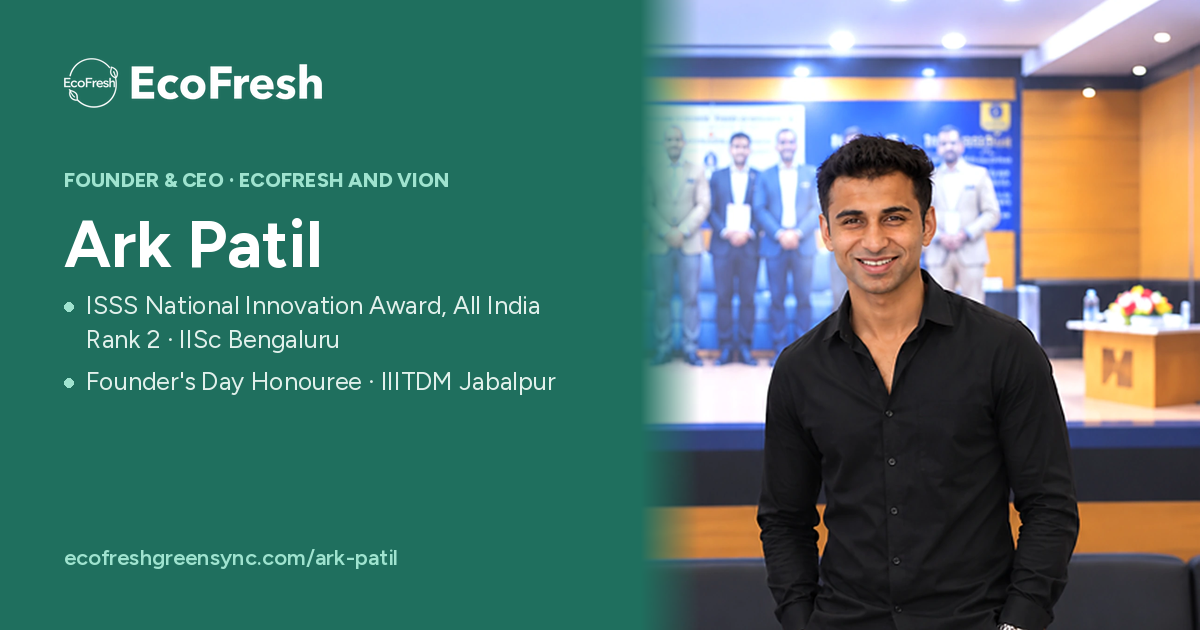
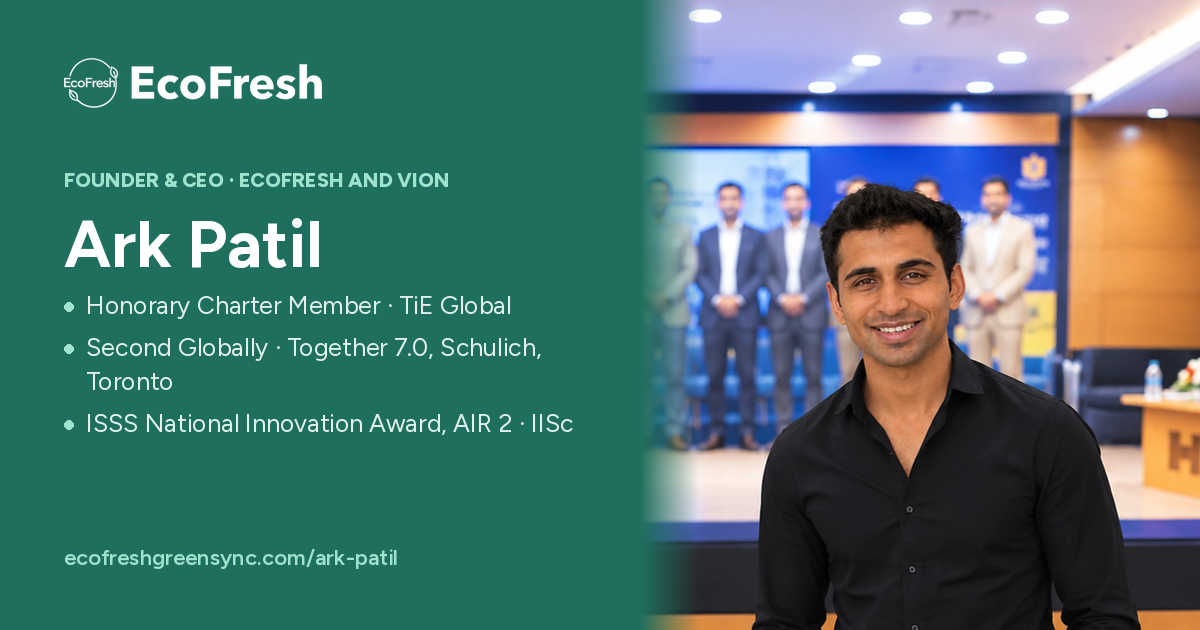
Bring Ark's profile in line with his LinkedIn (#16)
- Badges: Honorary Charter Member, TiE Global; Life Member, ISSS, IISc.
- Honours: Second Globally, Together 7.0; ISSS AIR 2; Founder's Day with
  the Director's institute-wide letter; Claude for Startups (Anthropic).
- VION: Rs 10 Cr committed (Sobhagya Mercantile CMD), 20+ clinicians and
  professors, Medicover Nashik pilot in preparation, Dr Deogaonkar review,
  IHFC IIT Delhi, CeNSE/NNFC, SiB shortlist (was 'selected'), TRL 4.
- EcoFresh: Together 7.0 2nd, paid-pilot talks with IHCL and Oberoi,
  Gemcorp and Matolutions sample requests, incubators, Blume added.
- Engineer view: semester GPA 5.4 to 9.2. Dropped 'Expedited examination'
  (also on Shivansh's patent card, plus its mixed-waste line).
- Google: new description and Person data (TiE, ISSS, Claude for
  Startups, IHFC); preview cards use the portraits the site shows.

Claude-Session: https://claude.ai/code/session_01LxFWTn4R91bdT7mANpx3nX

diff --git a/index.html b/index.html
@@ -5642,7 +5642,7 @@
   <div class="rg-main">
     <figure class="rg-photo"><img src="ark-cover7.webp" alt="Ark Patil, Founder and CEO of EcoFresh"></figure>
     <div class="rg-body">
-      <div class="rg-top"><p class="rg-role">Founder &amp; Chief Executive Officer</p><div class="rg-badges"><span class="rg-badge">An IIIT Alumnus</span><span class="rg-badge">Life Member, ISSS · IISc Bengaluru</span></div></div>
+      <div class="rg-top"><p class="rg-role">Founder &amp; Chief Executive Officer</p><div class="rg-badges"><span class="rg-badge">Honorary Charter Member · TiE Global</span><span class="rg-badge">Life Member · ISSS, IISc</span><span class="rg-badge">An IIIT Alumnus</span></div></div>
       <h2 class="rg-name">Ark Patil</h2>
       <nav class="rg-tabs" aria-label="Ark Patil's story">
         <button type="button" data-s="entrepreneur">Entrepreneur</button><i></i>
@@ -5650,11 +5650,13 @@
         <button type="button" data-s="inventor">Inventor</button><i></i>
         <button type="button" data-s="athlete">National Collegiate Athlete</button>
       </nav>
-      <div class="rg-honour rg-hon2">
-        <p title="Dr V. K. Aatre: former Director General, DRDO and Scientific Adviser to the Defence Minister; Padma Vibhushan (2016) and Padma Bhushan (2000). Prof. Rudra Pratap: founding Vice-Chancellor, Plaksha University; Qimpro Gold Standard 2024 (Education); built India's first MEMS research lab at IISc and co-founded i2n Technologies, maker of India's first indigenous MEMS product; 250 papers, 17 patents. Prof. Navakanta Bhat: Infosys Prize 2018 (Engineering and Computer Science), IISc Bengaluru."><span>ISSS National Innovation Awardee <i>·</i> IISc Bengaluru</span><em><b>AIR 2</b> · conferred by <b>Padma Vibhushan Dr V. K. Aatre</b>, former Chief of India's Defence Research &amp; Development Organisation; <b>Prof. Rudra Pratap</b>, Qimpro Gold Standard awardee who built India's first MEMS research lab at IISc; &amp; <b>Prof. Navakanta Bhat</b>, Infosys Prize laureate, IISc</em></p>
-        <p title="Prof. Bhartendu K. Singh: Director, IIITDM Jabalpur; physicist on the PHENIX quark-gluon plasma experiment at Brookhaven National Laboratory (USA); 270+ SCI papers, h-index 50; postdoctoral work at the Weizmann Institute, INFN and Columbia University. Prof. Puneet Tandon: 46 patents and design registrations (22 granted, 9 international); 365 publications; Honorary Professor, Nosov Magnitogorsk State Technical University (Russia); DUO-India Professor Fellow, University of Padova; former Dean (Research), IIITDM Jabalpur."><span>Founder's Day Honouree <i>·</i> IIITDM Jabalpur</span><em>Felicitated by the Director, <b>Prof. Bhartendu K. Singh</b>, physicist at Brookhaven National Laboratory, USA, &amp; <b>Prof. Puneet Tandon</b>, Honorary Professor, Nosov Magnitogorsk State Technical University, Russia</em></p>
+      <div class="rg-honour rg-hon2 sf-hon">
+        <p class="sf-in" title="Together 7.0, Indo-Canada Global Entrepreneurship Bootcamp &amp; Venture Competition, 2 November 2026: run by the Schulich School of Business, York University, and the Consulate General of India, Toronto, with TiE Toronto and Startup India (DPIIT). Teams selected from student founders across 17,000+ colleges and 700+ universities. Prize: CAD 5,000 from Friends of Bata, the Bata family's entrepreneurship platform, and a funded invitation to the TiE Global Summit, Indore."><span>Second Globally <i>·</i> Together 7.0 <i>·</i> Schulich, Toronto</span><em>International Second Prize with <b>TiE</b> &amp; <b>Startup India</b>; <b>CAD 5,000</b> from <b>Friends of Bata</b></em></p>
+        <p class="sf-in" title="Dr V. K. Aatre: former Director General, DRDO and Scientific Adviser to the Defence Minister; Padma Vibhushan (2016) and Padma Bhushan (2000). Prof. Rudra Pratap: founding Vice-Chancellor, Plaksha University; Qimpro Gold Standard 2024 (Education); built India's first MEMS research lab at IISc and co-founded i2n Technologies, maker of India's first indigenous MEMS product; 250 papers, 17 patents. Prof. Navakanta Bhat: Infosys Prize 2018 (Engineering and Computer Science), IISc Bengaluru."><span>ISSS National Innovation Awardee <i>·</i> IISc Bengaluru</span><em><b>AIR 2</b>, conferred by <b>Padma Vibhushan Dr V. K. Aatre</b>, former Chief of DRDO; <b>Prof. Rudra Pratap</b> &amp; <b>Prof. Navakanta Bhat</b></em></p>
+        <p class="sf-in" title="Prof. Bhartendu K. Singh: Director, IIITDM Jabalpur; physicist on the PHENIX quark-gluon plasma experiment at Brookhaven National Laboratory (USA); 270+ SCI papers, h-index 50; postdoctoral work at the Weizmann Institute, INFN and Columbia University. Prof. Puneet Tandon: 46 patents and design registrations (22 granted, 9 international); 365 publications; Honorary Professor, Nosov Magnitogorsk State Technical University (Russia); DUO-India Professor Fellow, University of Padova; former Dean (Research), IIITDM Jabalpur."><span>Founder's Day Honouree <i>·</i> IIITDM Jabalpur</span><em>Felicitated by the Director, <b>Prof. Bhartendu K. Singh</b>, &amp; <b>Prof. Puneet Tandon</b> · an <b>institute-wide letter</b> from the Director</em></p>
+        <p class="sf-in" title="Claude for Startups, the startup programme of Anthropic, accepted EcoFresh in 2026."><span>Selected <i>·</i> Claude for Startups <i>·</i> Anthropic</span><em>Chosen from <b>100,000+ startups</b> worldwide</em></p>
       </div>
-      <p class="rg-lead">Founder of EcoFresh and VION, two deep-tech companies built through India's leading institutions.</p>
+      <p class="rg-lead">Founder of EcoFresh and VION, two deep-tech companies built through India's leading institutions. Inventor on five Indian patent applications.</p>
       <div class="rg-press"><span>As featured in</span>
         <a href="https://www.facebook.com/share/v/1CDXeKERmV/" target="_blank" rel="noopener"><figure><img class="pc" src="press-etv.webp" alt="ETV Bharat feature" loading="lazy"><figcaption>ETV Bharat <em>Watch ↗</em></figcaption></figure></a>
         <figure><img src="press-patrika.webp" alt="Patrika report" loading="lazy"><figcaption>Patrika</figcaption></figure>
@@ -5682,15 +5684,15 @@
           <article class="ev-co">
             <header><img class="ev-logo ev-vion" src="lg-vion.webp" alt="VION"><span class="ev-kind">Health wearables</span></header>
             <p class="ev-what">A sweat-sensing arm band that flags health risks from sweat alone.</p>
-            <ul class="ev-stats"><li><b>AIR 2</b><span>ISSS Awards 2024, IISc Bengaluru</span></li><li><b>AIIMS · IITD</b><span>selected by the School of International Biodesign</span></li><li><b>₹150 Cr+</b><span>valuation, backed by MKS Group</span></li></ul>
-            <p class="ev-cred">A year in development; trialled on 100+ people, with accuracy close to 95% certified in writing by six senior doctors · Fabrication reviewed with CeNSE, IISc · Incubation offer, IHFC, IIT Delhi</p>
+            <ul class="ev-stats"><li><b>AIR 2</b><span>ISSS Awards 2024, IISc Bengaluru</span></li><li><b>₹10 Cr</b><span>committed by Shrikant Bhangdiya, CMD, Sobhagya Mercantile</span></li><li><b>20+</b><span>senior clinicians and professors, AIIMS New Delhi, IIT Delhi &amp; IISc</span></li></ul>
+            <p class="ev-cred">First observational clinical pilot (~50 participants) in preparation at Medicover Hospitals, Nashik, with Dr Sudhir Shetkar (DM Cardiology, AIIMS) · Clinical pathway confirmed by Dr Milind Deogaonkar, Director of Neurosurgery, Manipal Hospitals · Selected for incubation by IHFC, IIT Delhi · Fabrication feasibility closed with CeNSE/NNFC, IISc · Shortlisted and interviewed, School of International Biodesign 2026, AIIMS New Delhi &amp; IIT Delhi · Six-channel measurement chain lab-validated (TRL 4)</p>
             <div class="ev-acts"><button type="button" class="ev-play" data-yt="i609p_9neC0" data-title="VION">▶ Watch the film</button><a href="https://www.vion-global.com/" target="_blank" rel="noopener">Visit website ↗</a><button type="button" class="me-zoom ev-cert" data-full="cert-isss.webp" aria-label="ISSS UG Student Award 2024, Second Prize, certificate">View AIR 2 certificate</button></div>
           </article>
           <article class="ev-co">
             <header><img class="ev-logo ev-lock" src="logo-lockup.webp" alt="EcoFresh: A Decentralized Climate Infrastructure Layer"><span class="ev-kind">Climate infrastructure</span></header>
             <p class="ev-what">A sealed unit at each hotel, feeding a shared hub that turns food waste into bioplastic.</p>
-            <ul class="ev-stats"><li><b>Top 14</b><span>of 1,300+ teams nationally, ISB LoopX</span></li><li><b>16th</b><span>of 2,500+ from 6+ countries, Hult Prize with the UN, IIT Bombay</span></li><li><b>3</b><span>incubators: IIITDM, IIT Ropar, ISB</span></li></ul>
-            <p class="ev-cred">Reviewed by The Earth Fund (Gruhas), Social Alpha and Lavni Ventures · Strong interest from India's leading climate investors and angels, and from NSRCEL, IIM Bangalore</p>
+            <ul class="ev-stats"><li><b>2nd</b><span>globally, Together 7.0, Schulich School of Business, with TiE</span></li><li><b>Top 14</b><span>of 1,300+ teams nationally, ISB LoopX</span></li><li><b>16th</b><span>of 2,500+ from 6+ countries, Hult Prize with the UN, IIT Bombay</span></li></ul>
+            <p class="ev-cred">In paid-pilot discussions with IHCL (Taj Hotels), starting with Taj Nashik, and The Oberoi Group · Gemcorp Recycling and Matolutions have asked for samples for machine trials · Bioplastic made from food-waste fats, confirmed at Tezpur University (TRL 4) · Incubated at IIITDM Jabalpur, TBIF IIT Ropar (36 months, designated pilot site) and ISB · Reviewed by Blume Ventures, Social Alpha, The Earth Fund and Lavni Ventures · Selected for Claude for Startups, Anthropic</p>
             <div class="ev-acts"><button type="button" class="ev-play" data-yt="qmsmWd0p7u8" data-title="EcoFresh">▶ Watch the film</button><a href="https://www.ecofreshgreensync.com/" target="_blank" rel="noopener">Visit website ↗</a></div>
           </article>
         </div>
@@ -5707,7 +5709,7 @@
         <div class="me-tb" aria-hidden="true"><div><span>Drawn</span>A. Patil</div><div><span>Institute</span>IIITDM Jabalpur</div><div><span>Scale</span>1 : 1</div><div><span>Sheet</span>2 of 4</div></div>
         <p class="ev-eyebrow">Mechanical Engineer</p>
         <h3 class="ev-head">An engineer's hands behind the CEO's decisions.</h3>
-        <p class="ev-lede">Five edges of his craft, six perfect A+ grades, and where each one shows up in EcoFresh.</p>
+        <p class="ev-lede">Five edges of his craft, six perfect A+ grades, a semester GPA that rose every term from 5.4 to 9.2, and where each shows up in EcoFresh.</p>
         <div class="me-cards"><article class="me-card"><figure><button type="button" class="me-zoom" data-full="me-unit-full.webp" aria-label="Enlarge: Hotel unit main assembly, front and side views"><img src="me-unit.webp" alt="Hotel unit main assembly, front and side views" loading="lazy"></button></figure><h4><span>01</span>Design &amp; CAD</h4><ul><li><span>Computer-Aided Product Development</span><b class="ap">A+</b></li><li><span>Rapid Product Development</span><b class="">A</b></li><li><span>Engineering Design &amp; Fabrication Project</span><b class="">A</b></li></ul><p><i>→ In EcoFresh</i>Designed the hotel unit's main assembly in CAD, to a 3.0 × 2.0 × 2.4 m footprint.</p></article><article class="me-card"><figure><button type="button" class="me-zoom" data-full="me-tanks-full.webp" aria-label="Enlarge: Hotel unit storage tanks, fabrication drawing"><img src="me-tanks.webp" alt="Hotel unit storage tanks, fabrication drawing" loading="lazy"></button></figure><h4><span>02</span>Fabrication &amp; Joining</h4><ul><li><span>Fabrication Project</span><b class="ap">A+</b></li><li><span>Advanced Welding &amp; Joining</span><b class="ap">A+</b></li></ul><p><i>→ In EcoFresh</i>Sealed stainless units, and the pressure-rated scCO₂ extraction chamber.</p></article><article class="me-card"><figure><button type="button" class="me-zoom" data-full="me-pha-full.webp" aria-label="Enlarge: EcoForm PHA pellets"><img src="me-pha.webp" alt="EcoForm PHA pellets" loading="lazy"></button></figure><h4><span>03</span>Materials</h4><ul><li><span>Engineering Materials &amp; Characterization</span><b class="ap">A+</b></li></ul><p><i>→ In EcoFresh</i>Reads PHA bioplastic as a material: pellet grade, strength and film.</p></article><article class="me-card"><figure><button type="button" class="me-zoom" data-full="me-hub-full.webp" aria-label="Enlarge: Central hub, engineering layout"><img src="me-hub.webp" alt="Central hub, engineering layout" loading="lazy"></button></figure><h4><span>04</span>Manufacturing</h4><ul><li><span>Manufacturing Process</span><b class="ap">A+</b></li><li><span>Advanced Manufacturing Processes</span><b class="">A</b></li><li><span>Additive &amp; Subtractive Manufacturing</span><b class="">A</b></li></ul><p><i>→ In EcoFresh</i>Laid out the 60 × 30 m central hub, from the receiving bay to PHA bagging.</p></article><article class="me-card"><figure><button type="button" class="me-zoom" data-full="me-cad-full.webp" aria-label="Enlarge: Hotel unit enclosure with control panel"><img src="me-cad.webp" alt="Hotel unit enclosure with control panel" loading="lazy"></button></figure><h4><span>05</span>Machines &amp; Systems</h4><ul><li><span>Digital Twins in Manufacturing</span><b class="ap">A+</b></li><li><span>Cyber-Physical Production Systems</span><b class="">A</b></li><li><span>Kinematics &amp; Dynamics of Machines</span><b class="">A</b></li></ul><p><i>→ In EcoFresh</i>The unit's controls, and a data-aware hub that monitors every node.</p></article></div>
       </div>
     </div>
@@ -5726,7 +5728,7 @@
 </g><g font-family="Times New Roman,serif" font-size="15" fill="#141416" fill-opacity=".4"><text x="1114" y="264">102</text><text x="1114" y="488">104</text><text x="712" y="364">106</text><text x="964" y="716">108</text><text x="870" y="760" font-size="18" letter-spacing="2">FIG. 2</text></g></svg>
         <p class="ev-eyebrow">Inventor</p>
         <h3 class="ev-head">Five inventions. One habit: turning a problem into a system.</h3>
-        <div class="iv-cards"><article class="iv-card"><header><span class="iv-fig">FIG. 1</span><span class="iv-dom">Health · VION</span><span class="iv-st pub">Published</span></header><h4>Sweat-Based Wearable Health Monitoring System</h4><div class="iv-meta"><div><span>Application no.</span><b>202521072481 A</b></div><div><span>Filed</span>30 Jul 2025</div><div><span>Published</span>08 Aug 2025 · Journal 32/2025</div><div><span>Applicant</span>IIITDM Jabalpur</div></div><div class="iv-act"><a class="iv-l pri" href="ip/IN202521072481-VION.pdf" target="_blank" rel="noopener">Journal entry ↗</a><button type="button" class="iv-verify" data-no="202521072481">IP India search ↗</button><span class="iv-copied" aria-live="polite"></span></div></article><article class="iv-card"><header><span class="iv-fig">FIG. 2</span><span class="iv-dom">Sport · SprintSync</span><span class="iv-st pub">Published</span></header><h4>Sprint Timing and Performance Monitoring System and Method Thereof</h4><div class="iv-meta"><div><span>Application no.</span><b>202521097362 A</b></div><div><span>Filed</span>09 Oct 2025</div><div><span>Published</span>24 Oct 2025 · Journal 43/2025</div><div><span>Applicant</span>IIITDM Jabalpur</div></div><div class="iv-act"><a class="iv-l pri" href="ip/IN202521097362-SprintSync.pdf" target="_blank" rel="noopener">Journal entry ↗</a><button type="button" class="iv-verify" data-no="202521097362">IP India search ↗</button><span class="iv-copied" aria-live="polite"></span></div></article><article class="iv-card"><header><span class="iv-fig">FIG. 3</span><span class="iv-dom">Climate · EcoFresh</span><span class="iv-st pub">Published</span></header><h4>Bioplastic Production System and Method of Its Operation</h4><div class="iv-meta"><div><span>Application no.</span><b>202621016608 A1</b></div><div><span>Filed</span>14 Feb 2026</div><div><span>Published</span>03 Apr 2026 · Journal 14/2026</div><div><span>Applicant</span>EcoFresh GreenSync LLP</div></div><p class="iv-note">Expedited examination · Form 18A</p><div class="iv-act"><a class="iv-l pri" href="ip/IN202621016608-EcoFresh.pdf" target="_blank" rel="noopener">Journal entry ↗</a><button type="button" class="iv-verify" data-no="202621016608">IP India search ↗</button><span class="iv-copied" aria-live="polite"></span></div></article><article class="iv-card"><header><span class="iv-fig">FIG. 4</span><span class="iv-dom">Human performance · OneSync</span><span class="iv-st pub">Published</span></header><h4>Multimodal Edge-Executable Cognitive–Motor Performance Inference Wearable System and Method Thereof</h4><div class="iv-meta"><div><span>Application no.</span><b>202621030336 A</b></div><div><span>Filed</span>13 Mar 2026</div><div><span>Published</span>01 May 2026</div><div><span>Applicant</span>EcoFresh GreenSync LLP</div></div><div class="iv-act"><a class="iv-l pri" href="ip/IN202621030336-OneSync.pdf" target="_blank" rel="noopener">Journal entry ↗</a><button type="button" class="iv-verify" data-no="202621030336">IP India search ↗</button><span class="iv-copied" aria-live="polite"></span></div></article><article class="iv-card"><header><span class="iv-fig">FIG. 5</span><span class="iv-dom">Industry · Smart Machine</span><span class="iv-st ">Filed</span></header><h4>Smart Machine Interpretation System</h4><div class="iv-meta"><div><span>Applicant</span>IIITDM Jabalpur</div></div><p class="iv-note">Complete specification filed</p><div class="iv-act"><span class="iv-pending">Number on publication</span></div></article></div>
+        <div class="iv-cards"><article class="iv-card"><header><span class="iv-fig">FIG. 1</span><span class="iv-dom">Health · VION</span><span class="iv-st pub">Published</span></header><h4>Sweat-Based Wearable Health Monitoring System</h4><div class="iv-meta"><div><span>Application no.</span><b>202521072481 A</b></div><div><span>Filed</span>30 Jul 2025</div><div><span>Published</span>08 Aug 2025 · Journal 32/2025</div><div><span>Applicant</span>IIITDM Jabalpur</div></div><div class="iv-act"><a class="iv-l pri" href="ip/IN202521072481-VION.pdf" target="_blank" rel="noopener">Journal entry ↗</a><button type="button" class="iv-verify" data-no="202521072481">IP India search ↗</button><span class="iv-copied" aria-live="polite"></span></div></article><article class="iv-card"><header><span class="iv-fig">FIG. 2</span><span class="iv-dom">Sport · SprintSync</span><span class="iv-st pub">Published</span></header><h4>Sprint Timing and Performance Monitoring System and Method Thereof</h4><div class="iv-meta"><div><span>Application no.</span><b>202521097362 A</b></div><div><span>Filed</span>09 Oct 2025</div><div><span>Published</span>24 Oct 2025 · Journal 43/2025</div><div><span>Applicant</span>IIITDM Jabalpur</div></div><div class="iv-act"><a class="iv-l pri" href="ip/IN202521097362-SprintSync.pdf" target="_blank" rel="noopener">Journal entry ↗</a><button type="button" class="iv-verify" data-no="202521097362">IP India search ↗</button><span class="iv-copied" aria-live="polite"></span></div></article><article class="iv-card"><header><span class="iv-fig">FIG. 3</span><span class="iv-dom">Climate · EcoFresh</span><span class="iv-st pub">Published</span></header><h4>Bioplastic Production System and Method of Its Operation</h4><div class="iv-meta"><div><span>Application no.</span><b>202621016608 A1</b></div><div><span>Filed</span>14 Feb 2026</div><div><span>Published</span>03 Apr 2026 · Journal 14/2026</div><div><span>Applicant</span>EcoFresh GreenSync LLP</div></div><div class="iv-act"><a class="iv-l pri" href="ip/IN202621016608-EcoFresh.pdf" target="_blank" rel="noopener">Journal entry ↗</a><button type="button" class="iv-verify" data-no="202621016608">IP India search ↗</button><span class="iv-copied" aria-live="polite"></span></div></article><article class="iv-card"><header><span class="iv-fig">FIG. 4</span><span class="iv-dom">Human performance · OneSync</span><span class="iv-st pub">Published</span></header><h4>Multimodal Edge-Executable Cognitive–Motor Performance Inference Wearable System and Method Thereof</h4><div class="iv-meta"><div><span>Application no.</span><b>202621030336 A</b></div><div><span>Filed</span>13 Mar 2026</div><div><span>Published</span>01 May 2026</div><div><span>Applicant</span>EcoFresh GreenSync LLP</div></div><div class="iv-act"><a class="iv-l pri" href="ip/IN202621030336-OneSync.pdf" target="_blank" rel="noopener">Journal entry ↗</a><button type="button" class="iv-verify" data-no="202621030336">IP India search ↗</button><span class="iv-copied" aria-live="polite"></span></div></article><article class="iv-card"><header><span class="iv-fig">FIG. 5</span><span class="iv-dom">Industry · Smart Machine</span><span class="iv-st ">Filed</span></header><h4>Smart Machine Interpretation System</h4><div class="iv-meta"><div><span>Applicant</span>IIITDM Jabalpur</div></div><p class="iv-note">Complete specification filed</p><div class="iv-act"><span class="iv-pending">Number on publication</span></div></article></div>
         <div class="iv-band"><img src="lg-moe-u.webp" alt="Ministry of Education"><img src="lg-iiitdm-u.webp" alt="IIITDM Jabalpur"><p>Named inventor on <b>5 Indian patent applications, 4 published</b>. Three filed by IIITDM Jabalpur and developed within its Institution's Innovation Council (IIC), Ministry of Education; two filed by EcoFresh GreenSync LLP.</p><button type="button" class="me-zoom iv-dw" data-full="cert-dw9.webp" aria-label="Design Workshop 9.0, IIITDM Jabalpur, 1st place certificate"><img src="cert-dw9.webp" alt=""><span><b>1st</b> · Design Workshop 9.0 ↗</span></button></div>
       </div>
     </div>
@@ -6100,8 +6102,8 @@
   <h4 class="bp-title"><small>(54)</small> Bioplastic production system and method of its operation</h4>
   <dl class="bp-id"><div><dt>(21)</dt><dd><i>Publication</i>Published Indian Patent Application IN 202621016608 A1</dd></div><div><dt>(22)</dt><dd><i>Filed</i>14 Feb 2026 · Published 3 Apr 2026 · Journal 14/2026</dd></div><div><dt>(72)</dt><dd><i>Inventors</i>Mayur Kumar · Ark Patil · Ansh Bathija · <b>Shivansh Fulper</b></dd></div></dl>
   <div class="bp-fig bp-fig1"><svg class="bp-svg" viewBox="0 0 600 210" role="img" aria-label="Block diagram of the claimed system: organic and plastic waste are conditioned, biologically converted, recovered, formed and finished, with an additive integration unit and a monitoring and regulation module"><defs><marker id="bpA" viewBox="0 0 6 6" refX="5" refY="3" markerWidth="5" markerHeight="5" orient="auto"><path d="M0 0L6 3L0 6z" fill="#141416"/></marker></defs><text class="bp-in" x="4" y="44">Organic waste</text><text class="bp-in" x="4" y="134">Plastic waste</text><path class="bp-d ar" d="M66 40H86" pathLength="1"/><path class="bp-d ar" d="M66 130H86" pathLength="1"/><rect class="bp-d " x="88" y="22" width="92" height="36" rx="3" pathLength="1"/><text class="bp-t" text-anchor="middle"><tspan x="134.0" y="37.5">Waste material</tspan><tspan x="134.0" y="49.5">preparation unit</tspan></text><rect class="bp-d " x="88" y="112" width="92" height="36" rx="3" pathLength="1"/><text class="bp-t" text-anchor="middle"><tspan x="134.0" y="127.5">Plastic waste</tspan><tspan x="134.0" y="139.5">conditioning unit</tspan></text><path class="bp-d ar" d="M180 40H206" pathLength="1"/><path class="bp-d ar" d="M180 130H194V58H206" pathLength="1"/><rect class="bp-d " x="208" y="22" width="92" height="36" rx="3" pathLength="1"/><text class="bp-t" text-anchor="middle"><tspan x="254.0" y="37.5">Biological</tspan><tspan x="254.0" y="49.5">conversion unit</tspan></text><rect class="bp-d dash" x="208" y="84" width="92" height="28" rx="3" pathLength="1"/><text class="bp-t" text-anchor="middle"><tspan x="254.0" y="95.5">Additive</tspan><tspan x="254.0" y="107.5">integration unit</tspan></text><path class="bp-d ar" d="M254 84V60" pathLength="1"/><path class="bp-d ar" d="M300 40H326" pathLength="1"/><rect class="bp-d " x="328" y="22" width="92" height="36" rx="3" pathLength="1"/><text class="bp-t" text-anchor="middle"><tspan x="374.0" y="37.5">Polymer recovery</tspan><tspan x="374.0" y="49.5">&amp; purification</tspan></text><path class="bp-d ar" d="M420 40H446" pathLength="1"/><rect class="bp-d " x="448" y="22" width="70" height="36" rx="3" pathLength="1"/><text class="bp-t" text-anchor="middle"><tspan x="483.0" y="37.5">Polymer</tspan><tspan x="483.0" y="49.5">formation</tspan></text><path class="bp-d ar" d="M518 40H530V84" pathLength="1"/><rect class="bp-d " x="490" y="86" width="82" height="28" rx="3" pathLength="1"/><text class="bp-t" text-anchor="middle"><tspan x="531.0" y="97.5">Product</tspan><tspan x="531.0" y="109.5">finishing</tspan></text><rect class="bp-d dash" x="88" y="170" width="484" height="26" rx="3" pathLength="1"/><text class="bp-t" text-anchor="middle"><tspan x="330.0" y="186.5">Monitoring &amp; regulation module · adapts to variable waste composition</tspan></text><path class="bp-d dash" d="M134 168V60" pathLength="1"/><path class="bp-d dash" d="M254 168V114" pathLength="1"/><path class="bp-d dash" d="M374 168V60" pathLength="1"/><path class="bp-d dash" d="M483 168V60" pathLength="1"/><text class="bp-cap" x="4" y="206">Drawn from the published claims</text></svg></div>
-  <p class="bp-plain">Turns mixed organic and plastic waste into biodegradable polymer, and adapts to whatever waste arrives.</p>
-  <span class="bp-stamp"><b>Published</b><i>Expedited examination</i></span>
+  <p class="bp-plain">Turns food waste into biodegradable polymer, and adapts as the waste changes from day to day.</p>
+  <span class="bp-stamp"><b>Published</b><i>Journal 14/2026</i></span>
 </article><article class="bp-card" style="--d:.55s">
   <p class="bp-top"><span>(19) Intellectual Property Office, India</span></p>
   <h4 class="bp-title"><small>(54)</small> Multimodal edge-executable cognitive–motor performance inference wearable system and method thereof</h4>
